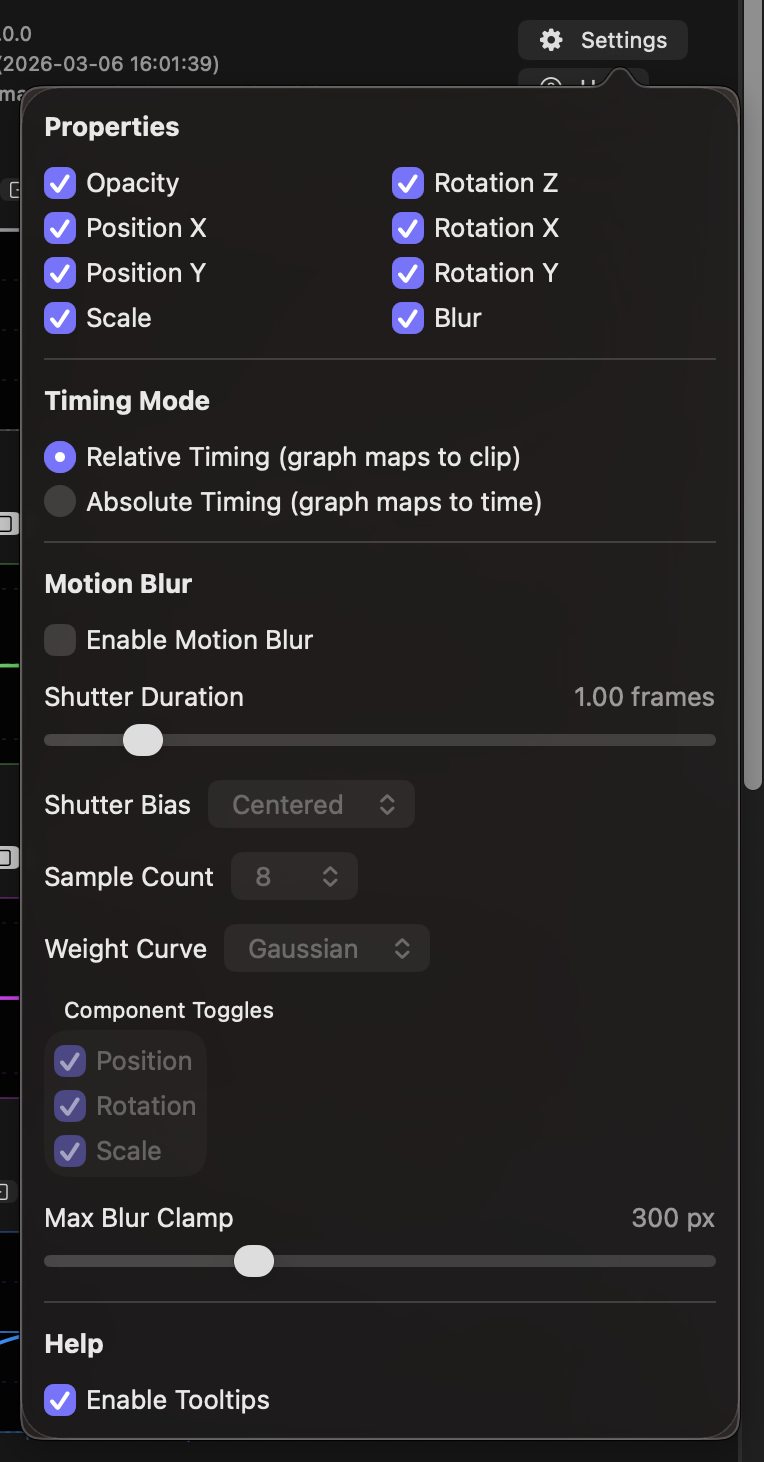
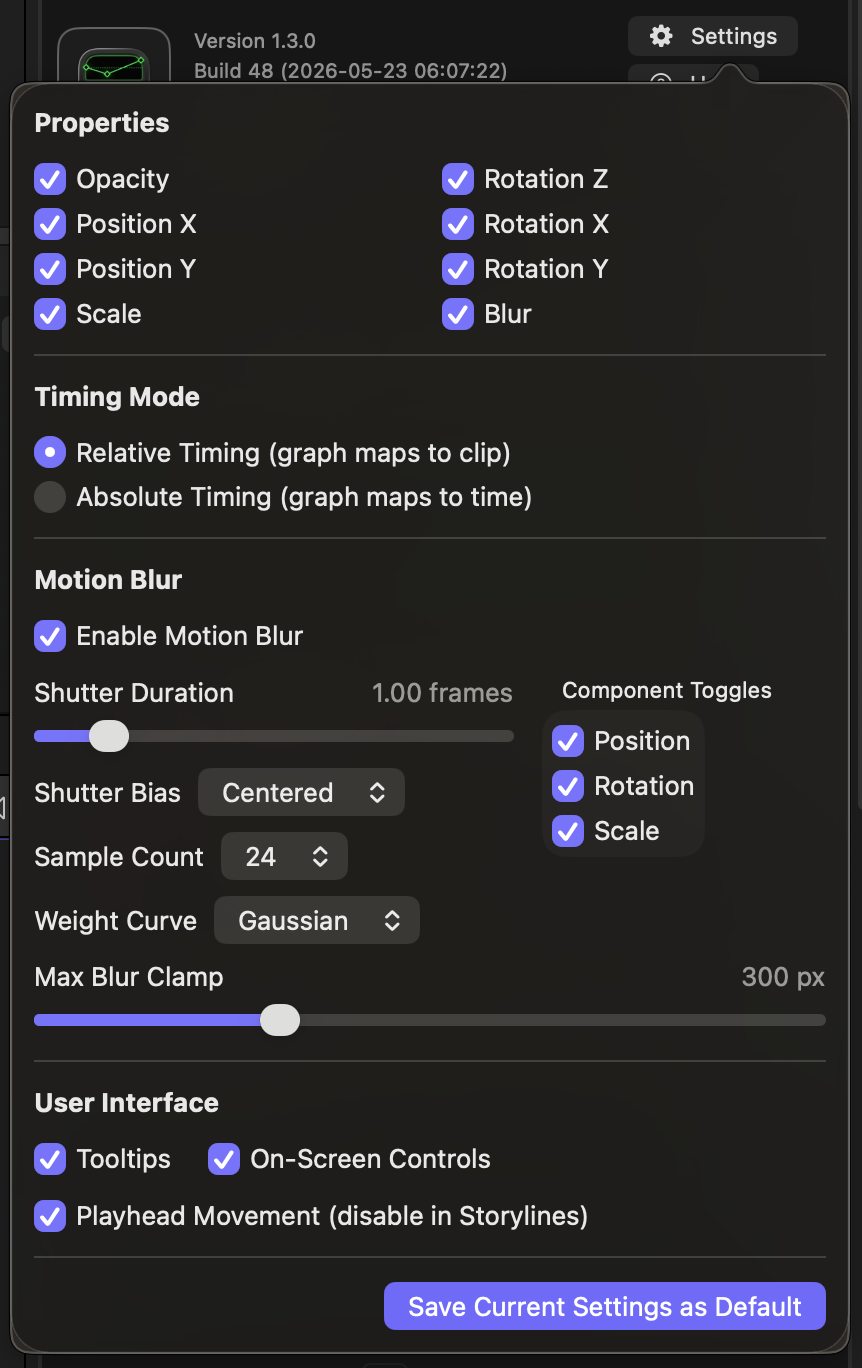
settings png, index for how-to-use updated

diff --git a/docs/how-to-use/README.md b/docs/how-to-use/README.md
@@ -42,6 +42,9 @@ However, if that's too much detail — read on for a Quick Start with a brief s
 - [Selecting, moving and scaling keyframes](selecting-moving-and-scaling-keyframes)
   - Shift-click additional keyframes or drag a selection to select multiple keyframes. Move or resize together. 
 
+- [Linked keyframes](linked-keyframes)
+  - Multiple keyframes on separate properties can be linked to keep time and handles in sync. `New in v1.3` 
+
 - [Using the graph menu](using-the-graph-menu)
   - Select keyframes first or affect a whole graph. Flip times or values, copy and paste, clone nearby values.
 
@@ -56,6 +59,9 @@ However, if that's too much detail — read on for a Quick Start with a brief s
 
 - [Before First Keyframe and After Last Keyframe](before-first-keyframe-and-after-last-keyframe)
   - Repeat or reflect the current graph before the first and/or after the last keyframe.
+
+- [On-screen controls](on-screen-controls)
+  - On-screen controls (OSC) allow you to click on drag in the viewer to create or delete keyframes. `New in v1.3`
 
 - [Settings](settings)
   - Enable Motion Blur, select which graphs you want to see, control UI options, and set defaults.